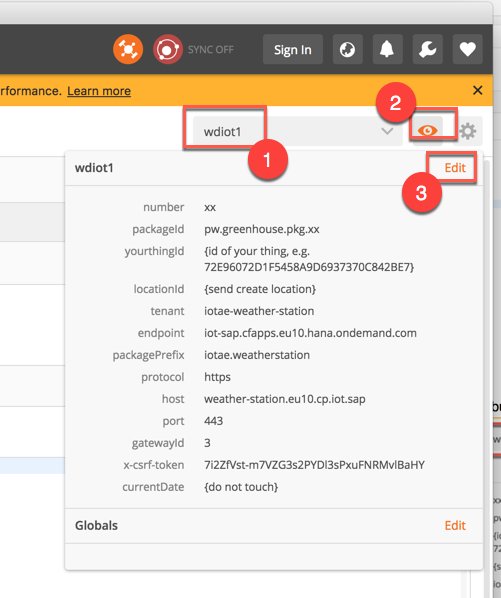
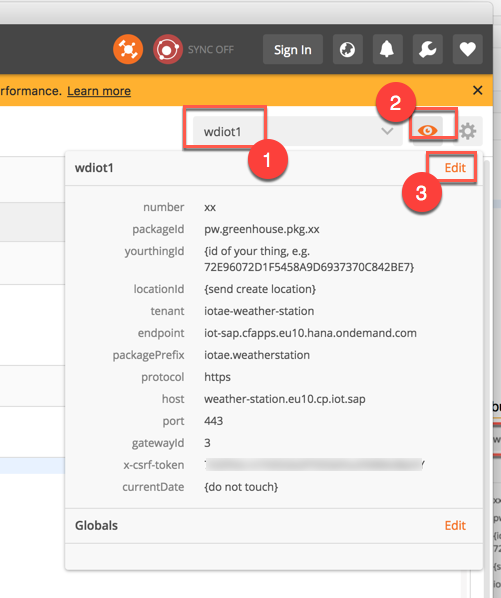
Fixed an issue with x-csrf-token in Exercise 04

Changed region(s): [[0.4192, 0.7525, 0.8383, 0.8127]]

diff --git a/Exercise_04/Exercise_04.md b/Exercise_04/Exercise_04.md
@@ -403,7 +403,7 @@ In order to perform this step you need to have Postman Interceptor installed in 
 1.	On the left-hand side, select **01 Thing Configuration -> Read configuration**. A new tab opens up on the right-hand side containing a GET request to read the package configuration. Some of the variables in the URL request will be replaced by the corresponding ones in the environment you have configured before. Click on **Send**  
 	![](images/070.png)
 
-1. You shoudl get a JSON file with all the details about your package configuration  
+1. You should get a JSON file with all the details about your package configuration  
 	![](images/071.png)
 
 1. If the response you get is only an HTML file, it means that there is something wrong. Please check that your Postman Interceptor is enabled and try by signing in again to the Weather Station on Chrome with your credentials  
@@ -412,10 +412,13 @@ In order to perform this step you need to have Postman Interceptor installed in 
 1. In the "**wdiot1 iotae apis**" collection, click on **Thing Onboarding -> Fetch csrf token**. Click **Send** and you should receive a "**200 OK**" status code with some JSON in the response body  
 	![](images/073.png)
 
+1. Switch to the **Headers** tab and copy the **x-csrf-token** key in the clipboard
+	![](images/073b.png)
+
 1. On the top right corner, be sure to have the **wdiot1** environment selected, click on the **eye** button and then on **Edit**  
 	![](images/074.png)
 
-1. Replace the field **yourthingId** with the **Thing ID** you received when you created the thing. Make sure that a **x-csrf-token** has been created and click on **Update**  
+1. Replace the field **yourthingId** with the **Thing ID** you received when you created the thing. Make sure that a **x-csrf-token** has been created. If not, paste in the textbox the value you have copied in the clipboard; click on **Update**  
 	![](images/075.png)
 
 1. Close the popup window  
